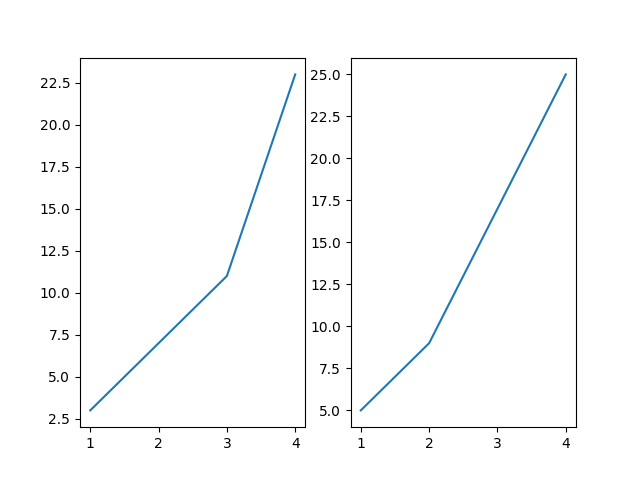
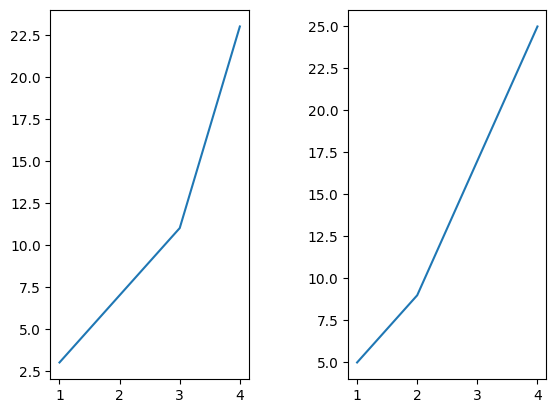
creating documents with multiple matplotlib plots

diff --git a/Charting data/pysql-course-projectst/matplotlib-polls/01app.py b/Charting data/pysql-course-projectst/matplotlib-polls/01app.py
@@ -1,10 +1,11 @@
 import matplotlib.pyplot as plt
 
 figure = plt.figure()
+figure.subplots_adjust(wspace=0.5)
 ax1 = figure.add_subplot(1, 2, 1)
 ax2 = figure.add_subplot(1, 2, 2)
 
 ax1.plot([1, 2, 3, 4], [3, 7, 11, 23])
 ax2.plot([1, 2, 3, 4], [5, 9, 17, 25])
 
-figure.savefig("01graphs.png")
+figure.savefig("01graphs.png", bbox_inches="tight")
